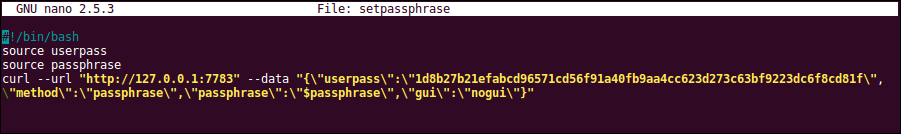
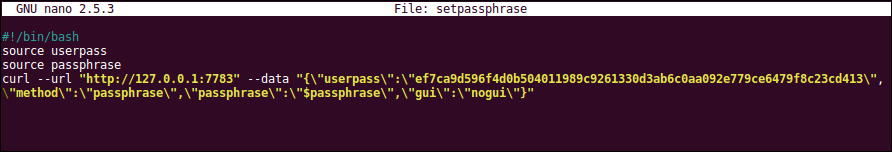
buy request, wip

Changed region(s): [[0.0, 0.209, 0.9989, 0.7463], [0.0, 0.0, 0.9989, 0.1194]]

diff --git a/docs/source/conf.py b/docs/source/conf.py
@@ -34,7 +34,7 @@ def setup(app):
 # Add any Sphinx extension module names here, as strings. They can be
 # extensions coming with Sphinx (named 'sphinx.ext.*') or your custom
 # ones.
-extensions = []
+extensions = ['sphinx.ext.autosectionlabel']
 
 # Add any paths that contain templates here, relative to this directory.
 templates_path = ['_templates']

diff --git a/docs/source/guides.rst b/docs/source/guides.rst
@@ -75,19 +75,19 @@ This copies a bunch of scripts in the dexscripts folder, which is where we need 
 
 Before we can use any of these scripts, some security measures are needed to prevent bad actors from issuing API calls without your consent. The ``passphrase`` and ``userpass`` values take care of this security.
 
-Create the passphrase file:
+Create the passphrase file. Type the following and hit enter:
 
 .. code-block:: bash
 
     nano passphrase
     
-This file should contain the following line, with a strong passphrase between the <>:
+This file should contain the following line, with a strong passphrase between the "":
 
 .. code-block:: bash
 
     export passphrase="<strong userpass value here>"
 
-``Ctrl-x`` to exit, and press ``y`` to save the changes.
+``Ctrl-x`` to exit, press ``y`` and then ``enter`` to save the changes.
 
 The ``userpass`` value is derived from the ``passphrase`` value, and in order to obtain the ``userpass`` value, we need to start BarterDEX. Starting BarterDEX (or actually the ``marketmaker`` process) is done by executing the ``client`` script, which basically is an automated combination of retrieving the latest updates and building the marketmaker executable file: (it can take a while before anything shows up)
 
@@ -111,7 +111,7 @@ The response contains the ``userpass`` value. Copy this value and paste it in a 
     nano userpass
     export userpass="<paste userpass value here>"
 
-``Ctrl-x`` to exit, ``y`` to save changes.
+``Ctrl-x`` to exit, ``y`` and ``enter`` to save changes.
 
 Everything is now good to go. From here on, you can issue any script that is in the dexscripts folder, such as the ``orderbook`` script, that fetches all the orders from the specified pair, or the ``getcoin`` script that gets all the coin-specific information from the coin as defined inside that script. 
 
@@ -146,12 +146,13 @@ Go to the ``dexscripts`` folder:
 .. image:: _static/images/setpassphrase-init.png
    :align: center
 
-Copy the contents of only the curl command to your clipboard (Ctrl-Shift-c):
+You'll see that this script uses the passphrase as defined in the passphrase file, and that the curl command below it is the RPC issued to the marketmaker instance. It is only this curl command we need in Insomnia.
+
+Copy the following ``setpassphrase`` curl command to your clipboard (it is the same as the one in the dexscripts folder):
 
 .. code-block:: bash
     
-    curl --url "http://127.0.0.1:7783" --data "{\"userpass\":\"1d8b27b21efabcd96571cd56f91a40fb9aa4cc623d273c63bf9223dc6f8cd81f\",\"method\":\"passphrase\",\"passphrase\":\"$passphrase\",\"gui\":\"nogui\"}"
-
+    curl --url "http://127.0.0.1:7783" --data "{\"userpass\":\"ef7ca9d596f4d0b504011989c9261330d3ab6c0aa092e779ce6479f8c23cd413\",\"method\":\"passphrase\",\"passphrase\":\"$passphrase\",\"gui\":\"nogui\"}"
 
 Now, go to Insomnia, and create a New Request (Ctrl-N).
 
@@ -160,12 +161,12 @@ Now, go to Insomnia, and create a New Request (Ctrl-N).
 
 Name it ``setpassphrase`` and click Create.
 
-Now, paste the just copied curl command in the textfield area, right next to the the GET dropdown:
+Paste the just copied curl command in the textfield area, right next to the the GET dropdown:
 
 .. image:: _static/images/setpassphrase-copy-curl.png
    :align: center
 
-Insomnia recognises this curl command, and automatically extracts the ip-address and the data. Let's call that middle part of Insomnia the Input screen. It still looks a bit ugly, so let's make it look better.
+Insomnia recognises this curl command, and automatically extracts the ip-address and the data. Let's call that middle part of Insomnia the input screen. It still looks a bit ugly, so let's make it look better.
 
 Click on Other, and change Other to JSON. 
 
@@ -179,26 +180,24 @@ Next, Beautify this JSON:
 
 It should result in this:
 
-
 .. image:: _static/images/setpassphrase-after-beautify.png
    :align: center
 
-Looks better, right? This process of copying a curl command from the ``dexscripts`` folder, creating a new request and pasting the curl command in Insomnia is what you probably need to do for most of the commands, like ``orderbook``, ``buy`` and ``balances``.
+Looks better, right? This process of copying a curl command from the ``dexscripts`` folder, creating a new request and pasting the curl command in Insomnia is what you probably need to do for most of the commands, like ``orderbook``, ``buy`` and ``balances``. Actually, all calls as defined in the :ref:`API docs` can be copied into Insomnia.
 
-Now enter your passphrase in the area where the passphrase still is empty, between the 2 quotes. Start a marketmaker instance by running ``client`` from the dexscripts folder and let it boot. When it's done booting, click the Send button in Insomnia for the setpassphrase script.
+Now enter your passphrase in the area where the passphrase still is empty, between the 2 quotes. Start a marketmaker instance by running ``./client`` from the `dexscripts` folder and let it boot. When it's done booting, click the Send button in Insomnia for the setpassphrase request.
 
[2 lines of base64/hex data omitted]
 
 This is what you should see in the output part of the screen, when you clicked Send:
 
 .. image:: _static/images/setpassphrase-after-send.png
    :align: center
 
-Orderbook
-^^^^^^^^^
+Fetch the orderbook
+^^^^^^^^^^^^^^^^^^^
 
 The next thing you probably want to see, is an orderbook for some pair, like KMD/BTC. Go to the ``dexscripts`` folder again, copy the complete curl command for ``orderbook`` and paste it in a new request. I called this new request ``orderbook KMD/BTC`` and the end result should look like this:
-
 
 .. image:: _static/images/orderbook-initial.png
    :align: center
@@ -230,10 +229,9 @@ For enabling coins when you have a native coin daemon running, the ``enable`` re
 
    curl --url "http://127.0.0.1:7783" --data "{\"userpass\":\"$userpass\",\"method\":\"enable\",\"coin\":\"BTC\"}"
 
-.
+This enables BTC to be used in marketmaker for the current session. If you stop marketmaker and start it again, you need to enable BTC again before it can be used in marketmaker. 
 
-Buy
-^^^
+To avoid having to enable coins everytime you start marketmaker, you need to edit the coins file: :ref:`How to edit the coins file`.
 
 Environment variables
 ^^^^^^^^^^^^^^^^^^^^^
@@ -262,6 +260,74 @@ If done correctly, you'll see this purple box appear between the 2 quotes. Do th
 .. image:: _static/images/env-orderbook-result.png
    :align: center
 
+Buy request
+^^^^^^^^^^^
+
+Now that we have successfully fetched an orderbook for the KMD/BTC pair, let's try and buy something.
+
+Copy the following ``buy`` curl and paste it in a new Insomnia request:
+
+.. code-block:: bash
+
+   curl --url "http://127.0.0.1:7783" --data "{\"userpass\":\"{{myuserpass}}\",\"method\":\"buy\",\"base\":\"KMD\",\"rel\":\"BTC\",\"relvolume\":0.005,\"price\":0.0005}"
+
+.. image:: _static/images/buy-copy-curl.png
+   :align: center
+
+Buying a coin always happens in pairs: KMD/BTC means that KMD is the base coin and BTC is the rel coin. You always buy base with rel, so in this case, you buy KMD with BTC. This means that you need some BTC in your BTC smart address, to be able to buy KMD with it, and you need to have at least 2 BTC transactions in this smart address, because you are paying a small `dexfee` too. 
+
+You can find this BTC smart address by selecting the ``setpassphrase`` request and finding the ``"BTC": "<address here>"`` line.
+
+``rel`` and ``relvolume`` are related. The amount of KMD you can buy, depends on the ``relvolume`` you define. A glance at the orderbook will give you an idea about how to define ``relvolume``. Also, the amount of KMD you receive is a combination of ``relvolume`` and ``price``. It is a result of a trade, rather than a goal. It is not simply saying: "I want 10 KMD, figure out how much BTC I need to pay". Instead, it is the other way around: "Here is 1 BTC, figure out how much KMD I get".
+
+Take for example this order in the orderbook for KMD/BTC:
+
+.. image:: _static/images/buy-orderbook-ex.png
+   :align: center
+
+There are three things in this ask that you need to pay attention to:
+
+- avevolume
+- maxvolume
+- depth
+
+``avevolume`` means the average volume of KMD this seller has to offer, expressed in BTC. This is useful, because you need to define the ``relvolume`` in your buy request as BTC. 
+``maxvolume`` means that the amount defined here is the largest KMD utxo of this seller. 
+``depth`` is a phrase commonly used by traders. Here it defines the sum of all KMD utxos from all sellers of KMD, cumulatively.
+
+If you successfully want to buy this order, you need to adapt the ``relvolume`` in your buy request to the volume specified in this order. For this order, it would need to be lower than 0.00498998 BTC. It also depends on the utxo set of the seller, because a seller needs to be able to do a deposit and the actual payment. A deposit is about 13% larger than the actual payment, which means that the seller has to have 2 utxos of about the same size, in order to sell something of that size. To read more about this, read the :ref:`Overview of the atomic swap protocol`.
+
+It is also important to state a ``price`` in your buy request. The price you define here is the maximum price you want to pay for your KMD. Since the order has set a price of 0.00036349, your max price needs to be a little above it.
+
+Now that we know all the information for submitting a ``buy`` request, we can create it. The following should, if the seller has enough utxos, yield you some KMD:
+
+.. code-block:: json
+
+   {
+      "userpass": "{{myuserpass}}",
+      "method": "buy",
+      "base": "KMD",
+      "rel": "BTC",
+      "relvolume": 0.001,
+      "price": 0.00037000
+   }
+
+.. note::
+
+   Because of network propagation times and the use of cached data, the data shown in the orderbook is not always 100% correct or up-to-date.
+
+Contrary to centralised exchanges like Binance or Bittrex, clicking Send for this ``buy`` request in Insomnia does not fulfill this order automatically. Instead, what marketmaker does is sending a ``buy request`` onto the decentralised network, to all the other marketmaker nodes your node is connected to. Each node will see this request, and if there is a node that has a price set for this KMD/BTC pair, it will evaluate your request and if it fulfills all requirements, it will reply with a message containing a counteroffer. This counteroffer is always better than the ``buy request`` you initially sent, because it falls within the boundaries you set in your ``buy request``.
+
+Your ``buy request`` can have multiple nodes on the marketmaker network respond with a better price. Your node then picks the best (lowest) price and starts the trade. 
+
+However! Defining a buy request that fulfills an order from the orderbook will not guarantee you of a successful trade. Network issues could stop a trade, as well as out-of-date data from the seller. The orderbook may be stating that a seller has utxos, but in reality someone else could have bought the order already.
+
+// hidden sellers
+
+The seller of KMD wants 0.00036349 BTC for 1 KMD, in other words: the price. 
+
+
+
 
 
 Folders
@@ -278,6 +344,26 @@ History
 
 Insomnia stores a list of all the calls you did in the past, including its output. This is useful for debugging and retrieving information you might need at a later stage. 
 
+How to edit the coins file
+--------------------------
+
+The coins file contains all the currently supported coins in BarterDEX. It is loaded into marketmaker each time you start it. The file can be edited to your likings, mainly to enable coins on marketmaker startup automatically, without having to enable coins one by one.
+
+Open the coins file with nano:
+
+.. code-block:: bash
+
+   cd ~/SuperNET/iguana/dexscripts
+   nano coins
+
+This will show you a list of all coins. Suppose you want to enable ZEC everytime you start marketmaker. You need to add the argument ``\"active\":1,`` to that JSON object, such that it results like this:
+
+.. image:: _static/images/edit-coins-zec.png
+   :align: center
+
+To find a coin in this long list of supported coins, type Ctrl-W to search. 
+
+You can make as many coins active as you like. If the native daemon of an active coin is not running, marketmaker will ignore the coin and leave the coin disabled. 
 
 How to create a new BarterDEX trading network
 ---------------------------------------------
